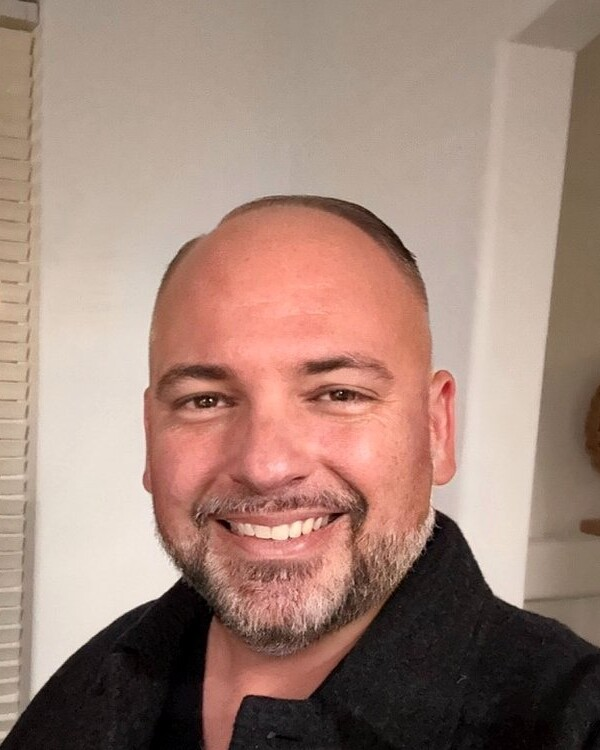
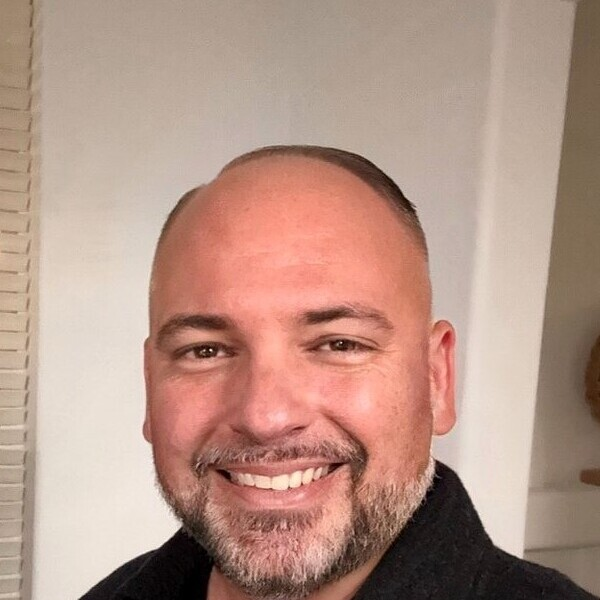
feat: design refinements - stat boxes, highlight CSS, borders, copy cleanup
- WhatWeDo grid: thicker inner dividers (gap-0.5), lighter hover (30%), numbered items (01-04)
- Highlight CSS: switch to background-image gradient approach (18% opacity, 0.18em line)
- CredibilityStrip: remove numbers, keep titles + subtitles only
- Founder section: replace bio paragraph with 3 stat boxes (20+, Multi-domain, Operator-led) + quote
- Photo: re-cropped to square for tighter head-and-shoulders framing
- Footer: expanded description copy per founder direction
- Reduced white space between What We Do and How It Works sections
- Replaced all em dashes with ellipses across site
- Removed all Oxford commas across site

diff --git a/src/pages/About.tsx b/src/pages/About.tsx
@@ -16,7 +16,7 @@ function AboutHero() {
           An independent venture platform built for <span className="text-highlight">serious</span> work.
         </h1>
         <p className="reveal text-graphite-600 text-lg md:text-xl leading-relaxed max-w-2xl">
-          Captive Path exists to evaluate, shape, and build selected opportunities.
+          Captive Path exists to evaluate, shape and build selected opportunities.
           It is not a consulting firm, an agency, or an accelerator. It is a focused
           platform for the work that sits between vision and execution.
         </p>
@@ -41,7 +41,7 @@ function FounderSection() {
             <div className="photo-editorial rounded-sm overflow-hidden">
               <img
                 src="/images/zach-warshawsky.jpg"
-                alt="Zach Warshawsky — Founder of Captive Path"
+                alt="Zach Warshawsky, Founder of Captive Path"
                 className="w-full h-auto object-cover grayscale-[20%] contrast-[1.05]"
               />
             </div>
@@ -64,22 +64,30 @@ function FounderSection() {
             <div className="space-y-5">
               <p className="reveal text-stone-300 text-lg leading-relaxed">
                 Captive Path is founded and led by Zach Warshawsky, whose background
-                spans technology, operations, systems, growth, and venture building.
-                The advantage is not just access to tools — it is the ability to
+                spans technology, operations, systems, growth and venture building.
+                The advantage is not just access to tools... it is the ability to
                 combine strategic thinking with real execution leverage across modern
                 platforms and workflows.
               </p>
-              <p className="reveal text-stone-400 text-base leading-relaxed">
-                Two decades across technology, operations, systems, and growth —
-                applied to what's worth building. The work behind Captive Path is
-                rooted in direct experience building products, leading teams,
-                navigating complex decisions, and understanding what it takes
-                to move from opportunity to outcome.
-              </p>
-              <p className="reveal text-stone-400 text-base leading-relaxed">
-                This is not outsourced judgment. It is earned perspective applied
-                to opportunities that deserve more than surface-level effort.
-              </p>
+              <div className="reveal grid grid-cols-3 gap-px bg-graphite-700 border-2 border-graphite-700 rounded-sm overflow-hidden">
+                <div className="bg-graphite-800 p-5 md:p-6">
+                  <span className="block font-display text-2xl md:text-3xl font-bold text-teal-400 mb-1">20+</span>
+                  <span className="text-stone-400 text-sm leading-snug">Years across technology &amp; operations</span>
+                </div>
+                <div className="bg-graphite-800 p-5 md:p-6">
+                  <span className="block font-display text-2xl md:text-3xl font-bold text-teal-400 mb-1">Multi-domain</span>
+                  <span className="text-stone-400 text-sm leading-snug">Systems, growth, venture building</span>
+                </div>
+                <div className="bg-graphite-800 p-5 md:p-6">
+                  <span className="block font-display text-2xl md:text-3xl font-bold text-teal-400 mb-1">Operator-led</span>
+                  <span className="text-stone-400 text-sm leading-snug">Strategy paired with real execution</span>
+                </div>
+              </div>
+              <blockquote className="reveal border-l-2 border-teal-700 pl-5">
+                <p className="text-stone-300 text-lg font-display font-medium italic leading-relaxed">
+                  "Judgment first. Capability second. Tools third."
+                </p>
+              </blockquote>
             </div>
           </div>
         </div>

diff --git a/src/components/WhyZach.tsx b/src/components/WhyZach.tsx
@@ -32,18 +32,33 @@ export function WhyZach({ expanded = false }: WhyZachProps) {
 
             <p className="reveal text-stone-300 text-lg leading-relaxed mb-6">
               Captive Path is founded and led by Zach Warshawsky, whose background
-              spans technology, operations, systems, growth, and venture building.
-              The advantage is not just access to tools — it is the ability to
+              spans technology, operations, systems, growth and venture building.
+              The advantage is not just access to tools... it is the ability to
               combine strategic thinking with real execution leverage across modern
               platforms and workflows.
             </p>
 
-            <p className="reveal text-stone-400 text-base leading-relaxed mb-8">
-              Two decades across technology, operations, systems, and growth —
-              applied to what's worth building.
-            </p>
+            <div className="reveal grid grid-cols-3 gap-px bg-graphite-700 border-2 border-graphite-700 rounded-sm overflow-hidden mb-8">
+              <div className="bg-graphite-800 p-5 md:p-6">
+                <span className="block font-display text-2xl md:text-3xl font-bold text-teal-400 mb-1">20+</span>
+                <span className="text-stone-400 text-sm leading-snug">Years across technology &amp; operations</span>
+              </div>
+              <div className="bg-graphite-800 p-5 md:p-6">
+                <span className="block font-display text-2xl md:text-3xl font-bold text-teal-400 mb-1">Multi-domain</span>
+                <span className="text-stone-400 text-sm leading-snug">Systems, growth, venture building</span>
+              </div>
+              <div className="bg-graphite-800 p-5 md:p-6">
+                <span className="block font-display text-2xl md:text-3xl font-bold text-teal-400 mb-1">Operator-led</span>
+                <span className="text-stone-400 text-sm leading-snug">Strategy paired with real execution</span>
+              </div>
+            </div>
 
-            {/* Decorative line motif */}
+            <blockquote className="reveal border-l-2 border-teal-700 pl-5 mb-8">
+              <p className="text-stone-300 text-lg font-display font-medium italic leading-relaxed">
+                "Judgment first. Capability second. Tools third."
+              </p>
+            </blockquote>
+
             <div className="reveal flex items-center gap-3">
               <div className="h-px w-12 bg-teal-700" />
               <span className="text-sm text-teal-400 font-display font-medium tracking-wide">
@@ -56,10 +71,10 @@ export function WhyZach({ expanded = false }: WhyZachProps) {
           {/* Photo */}
           {!expanded && (
             <div className="reveal flex justify-center md:justify-end">
-              <div className="photo-editorial rounded-sm w-72 md:w-80 aspect-[4/5] overflow-hidden">
+              <div className="photo-editorial rounded-sm w-72 md:w-80 aspect-square overflow-hidden">
                 <img
                   src="/images/zach-warshawsky.jpg"
-                  alt="Zach Warshawsky — Founder of Captive Path"
+                  alt="Zach Warshawsky, Founder of Captive Path"
                   className="w-full h-full object-cover object-top grayscale-[20%] contrast-[1.05]"
                   loading="lazy"
                 />

diff --git a/src/components/WhatWeDo.tsx b/src/components/WhatWeDo.tsx
@@ -3,24 +3,28 @@ import { useReveal } from '../hooks/useReveal';
 
 const pillars = [
   {
+    number: '01',
     title: 'Evaluate the opportunity',
     description:
-      'Pressure-test ideas, markets, wedges, and viability before overcommitting.',
+      'Pressure-test ideas, markets, wedges and viability before overcommitting.',
   },
   {
+    number: '02',
     title: 'Shape the strategy',
     description:
-      'Clarify positioning, business design, operating structure, and next moves.',
+      'Clarify positioning, business design, operating structure and next moves.',
   },
   {
+    number: '03',
     title: 'Build the foundation',
     description:
-      'Create products, systems, workflows, or infrastructure that move the venture forward.',
+      'Create products, systems, workflows or infrastructure that move the venture forward.',
   },
   {
+    number: '04',
     title: 'Support what scales',
     description:
-      'Stay involved where there is real alignment, upside, and leverage.',
+      'Stay involved where there is real alignment, upside and leverage.',
   },
 ];
 
@@ -45,16 +49,19 @@ export function WhatWeDo({ condensed = false }: WhatWeDoProps) {
         <p className="reveal text-graphite-600 text-lg leading-relaxed max-w-2xl mb-14 md:mb-18">
           Captive Path works on opportunities that need more than outsourced labor
           or broad consulting. The focus is on evaluating what matters, structuring
-          the right path forward, and helping build the systems, product, and
+          the right path forward and helping build the systems, product and
           momentum behind it.
         </p>
 
-        <div className="reveal-stagger grid grid-cols-1 md:grid-cols-2 gap-px bg-graphite-700 border-2 border-graphite-700 rounded-sm overflow-hidden">
+        <div className="reveal-stagger grid grid-cols-1 md:grid-cols-2 gap-0.5 bg-graphite-700 border-2 border-graphite-700 rounded-sm overflow-hidden">
           {pillars.map((pillar) => (
             <div
-              key={pillar.title}
-              className="reveal bg-stone-50 p-8 md:p-10 hover:bg-stone-100/60 transition-colors duration-300"
+              key={pillar.number}
+              className="reveal bg-stone-50 p-8 md:p-10 hover:bg-stone-100/30 transition-colors duration-300"
             >
+              <span className="text-sm font-display font-medium text-teal-800 tracking-wider mb-3 block">
+                {pillar.number}
+              </span>
               <h3 className="text-lg font-display font-semibold text-graphite-900 mb-3">
                 {pillar.title}
               </h3>

diff --git a/src/pages/Journal.tsx b/src/pages/Journal.tsx
@@ -21,7 +21,7 @@ const articles: Article[] = [
     slug: 'systems-over-hustle',
     title: 'Systems over hustle: why infrastructure decides outcomes',
     excerpt:
-      'The ventures that scale reliably are not the ones with the most energy — they are the ones with the best systems. Building repeatable infrastructure early changes everything that follows.',
+      'The ventures that scale reliably are not the ones with the most energy... they are the ones with the best systems. Building repeatable infrastructure early changes everything that follows.',
     date: 'Coming soon',
     category: 'Strategy',
   },
@@ -29,7 +29,7 @@ const articles: Article[] = [
     slug: 'incubation-model',
     title: 'What a modern incubation model actually looks like',
     excerpt:
-      'Traditional incubation is broken. The best opportunities need more than office space and mentorship — they need strategic clarity, technical capability, and real execution support.',
+      'Traditional incubation is broken. The best opportunities need more than office space and mentorship... they need strategic clarity, technical capability and real execution support.',
     date: 'Coming soon',
     category: 'Incubation',
   },
@@ -46,10 +46,10 @@ function JournalHero() {
           Journal
         </p>
         <h1 className="reveal font-display text-4xl sm:text-5xl md:text-6xl text-graphite-900 leading-tight font-bold mb-6 max-w-3xl">
-          Ideas, analysis, and operating <span className="text-highlight">perspective.</span>
+          Ideas, analysis and operating <span className="text-highlight">perspective.</span>
         </h1>
         <p className="reveal text-graphite-600 text-lg md:text-xl leading-relaxed max-w-2xl">
-          Writing on venture evaluation, strategy, incubation, and the work of
+          Writing on venture evaluation, strategy, incubation and the work of
           building things that matter.
         </p>
       </div>

diff --git a/src/components/HowItWorks.tsx b/src/components/HowItWorks.tsx
@@ -6,13 +6,13 @@ const steps = [
     number: '01',
     title: 'Assess',
     description:
-      'Understand the idea, the market, the wedge, and the practical upside.',
+      'Understand the idea, the market, the wedge and the practical upside.',
   },
   {
     number: '02',
     title: 'Refine',
     description:
-      'Clarify the strategy, priorities, constraints, and execution path.',
+      'Clarify the strategy, priorities, constraints and execution path.',
   },
   {
     number: '03',
@@ -36,7 +36,7 @@ export function HowItWorks({ condensed = false }: HowItWorksProps) {
   const ref = useReveal();
 
   return (
-    <section ref={ref} className="py-22 md:py-30">
+    <section ref={ref} className="pt-10 pb-22 md:pt-14 md:pb-30">
       <div className="max-w-6xl mx-auto px-6 md:px-10">
         <p className="reveal text-xs font-display font-medium tracking-widest uppercase text-teal-800 mb-4">
           How it works
@@ -48,8 +48,8 @@ export function HowItWorks({ condensed = false }: HowItWorksProps) {
 
         <p className="reveal text-graphite-600 text-lg leading-relaxed max-w-2xl mb-14 md:mb-18">
           The process starts with understanding the opportunity, pressure-testing
-          what matters, and identifying where real leverage exists. From there,
-          Captive Path helps define direction, build the right foundation, and
+          what matters and identifying where real leverage exists. From there,
+          Captive Path helps define direction, build the right foundation and
           support the opportunities that justify deeper involvement.
         </p>
 

diff --git a/src/components/CredibilityStrip.tsx b/src/components/CredibilityStrip.tsx
@@ -2,17 +2,14 @@ import { useReveal } from '../hooks/useReveal';
 
 const pillars = [
   {
-    number: '01',
     title: 'Independent platform',
     subtitle: 'Owned ventures + selective engagements',
   },
   {
-    number: '02',
     title: 'Selective opportunities',
     subtitle: 'Judgment before capacity',
   },
   {
-    number: '03',
     title: 'Serious execution',
     subtitle: 'Strategy, systems, modern build',
   },
@@ -26,10 +23,7 @@ export function CredibilityStrip() {
       <div className="max-w-6xl mx-auto px-6 md:px-10 py-14 md:py-18">
         <div className="reveal-stagger grid grid-cols-1 md:grid-cols-3 gap-8 md:gap-12">
           {pillars.map((pillar) => (
-            <div key={pillar.number} className="reveal">
-              <span className="text-sm font-display font-medium text-teal-800 tracking-wider mb-3 block">
-                {pillar.number}
-              </span>
+            <div key={pillar.title} className="reveal">
               <h3 className="font-display text-xl md:text-2xl font-semibold text-graphite-900 mb-2">
                 {pillar.title}
               </h3>

diff --git a/src/pages/Process.tsx b/src/pages/Process.tsx
@@ -16,7 +16,7 @@ function ProcessHero() {
         </h1>
         <p className="reveal text-graphite-600 text-lg md:text-xl leading-relaxed max-w-2xl">
           Every engagement starts with clarity. The process is structured to
-          separate signal from noise, pressure-test what matters, and build
+          separate signal from noise, pressure-test what matters and build
           toward outcomes with real leverage.
         </p>
       </div>
@@ -37,9 +37,9 @@ function EngagementModel() {
         </h2>
         <p className="reveal text-graphite-600 text-lg leading-relaxed max-w-2xl mb-14">
           Captive Path works with a small number of ventures at any given time.
-          This is intentional — the goal is meaningful involvement, not portfolio
+          This is intentional... the goal is meaningful involvement, not portfolio
           scale. Each engagement receives direct attention, real strategic
-          thought, and hands-on execution.
+          thought and hands-on execution.
         </p>
 
         <div className="reveal-stagger grid grid-cols-1 md:grid-cols-3 gap-6">

diff --git a/src/index.css b/src/index.css
@@ -150,18 +150,28 @@ body {
 /* Teal highlight word — accent underline for key words */
 .text-highlight {
   color: var(--color-teal-800);
-  text-decoration: underline;
-  text-decoration-color: var(--color-teal-700);
-  text-underline-offset: 6px;
-  text-decoration-thickness: 3px;
+  font-weight: 600;
+  background-image: linear-gradient(
+    rgba(20, 82, 80, 0.18),
+    rgba(20, 82, 80, 0.18)
+  );
+  background-repeat: no-repeat;
+  background-size: 100% 0.18em;
+  background-position: 0px 88%;
+  padding: 0px 0.04em;
 }
 
 .text-highlight-light {
   color: var(--color-teal-400);
-  text-decoration: underline;
-  text-decoration-color: var(--color-teal-600);
-  text-underline-offset: 6px;
-  text-decoration-thickness: 3px;
+  font-weight: 600;
+  background-image: linear-gradient(
+    rgba(59, 176, 172, 0.18),
+    rgba(59, 176, 172, 0.18)
+  );
+  background-repeat: no-repeat;
+  background-size: 100% 0.18em;
+  background-position: 0px 88%;
+  padding: 0px 0.04em;
 }
 
 /* Link hover underline */

diff --git a/src/components/WhoItsFor.tsx b/src/components/WhoItsFor.tsx
@@ -14,7 +14,7 @@ const audiences = [
   {
     label: 'Businesses',
     description:
-      'Launching new initiatives that require judgment, systems, and modern build capability.',
+      'Launching new initiatives that require judgment, systems and modern build capability.',
   },
 ];
 
@@ -33,7 +33,7 @@ export function WhoItsFor() {
         </h2>
 
         <p className="reveal text-graphite-600 text-lg leading-relaxed max-w-2xl mb-14 md:mb-18">
-          Captive Path is best aligned with founders, operators, and emerging
+          Captive Path is best aligned with founders, operators and emerging
           businesses that have credible potential but need stronger strategy,
           technical leverage, product direction, or execution support to move
           faster and more intelligently.

diff --git a/src/components/Footer.tsx b/src/components/Footer.tsx
@@ -17,8 +17,9 @@ export function Footer() {
               />
             </Link>
             <p className="mt-3 text-sm text-graphite-500 leading-relaxed max-w-sm">
-              An independent venture platform led by Zach Warshawsky. Built for
-              what's worth building.
+              An independent venture platform led by Zach Warshawsky. Built to
+              shape, support and advance selected opportunities through strategy,
+              systems and modern execution.
             </p>
           </div>
 

diff --git a/src/components/Hero.tsx b/src/components/Hero.tsx
@@ -15,8 +15,8 @@ export function Hero() {
 
           {/* Subhead */}
           <p className="text-lg md:text-xl text-graphite-600 leading-relaxed max-w-2xl mb-10 md:mb-14">
-            Captive Path builds, backs, and helps shape selected ventures
-            through strategy, systems, and modern technical execution.
+            Captive Path builds, backs and helps shape selected ventures
+            through strategy, systems and modern technical execution.
           </p>
 
           {/* CTAs */}

diff --git a/src/components/FocusAreas.tsx b/src/components/FocusAreas.tsx
@@ -4,8 +4,8 @@ const focuses = [
   'Venture shaping and opportunity evaluation',
   'Product and execution strategy',
   'Systems and operating infrastructure',
-  'AI-assisted research, planning, and build acceleration — used as leverage, not hype',
-  'Selective venture support, incubation, or partnership',
+  'AI-assisted research, planning and build acceleration... used as leverage, not hype',
+  'Selective venture support, incubation or partnership',
 ];
 
 export function FocusAreas() {
